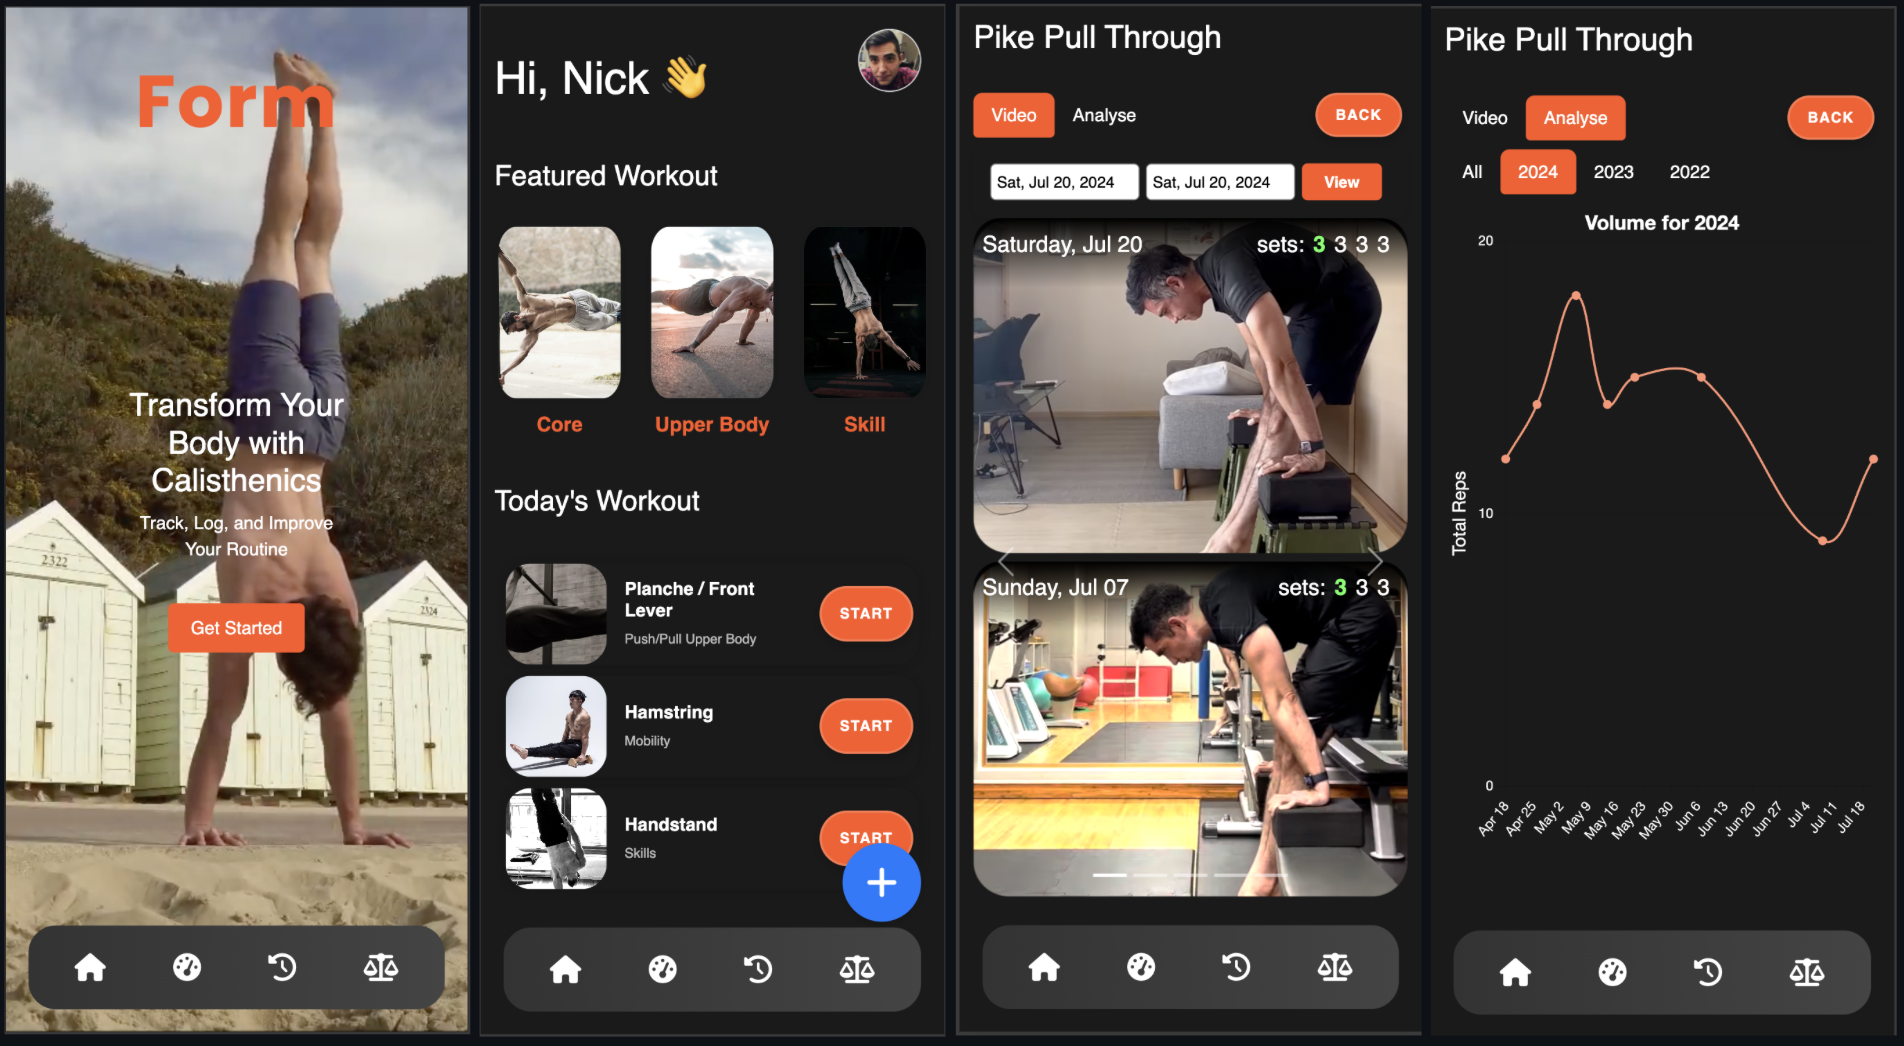
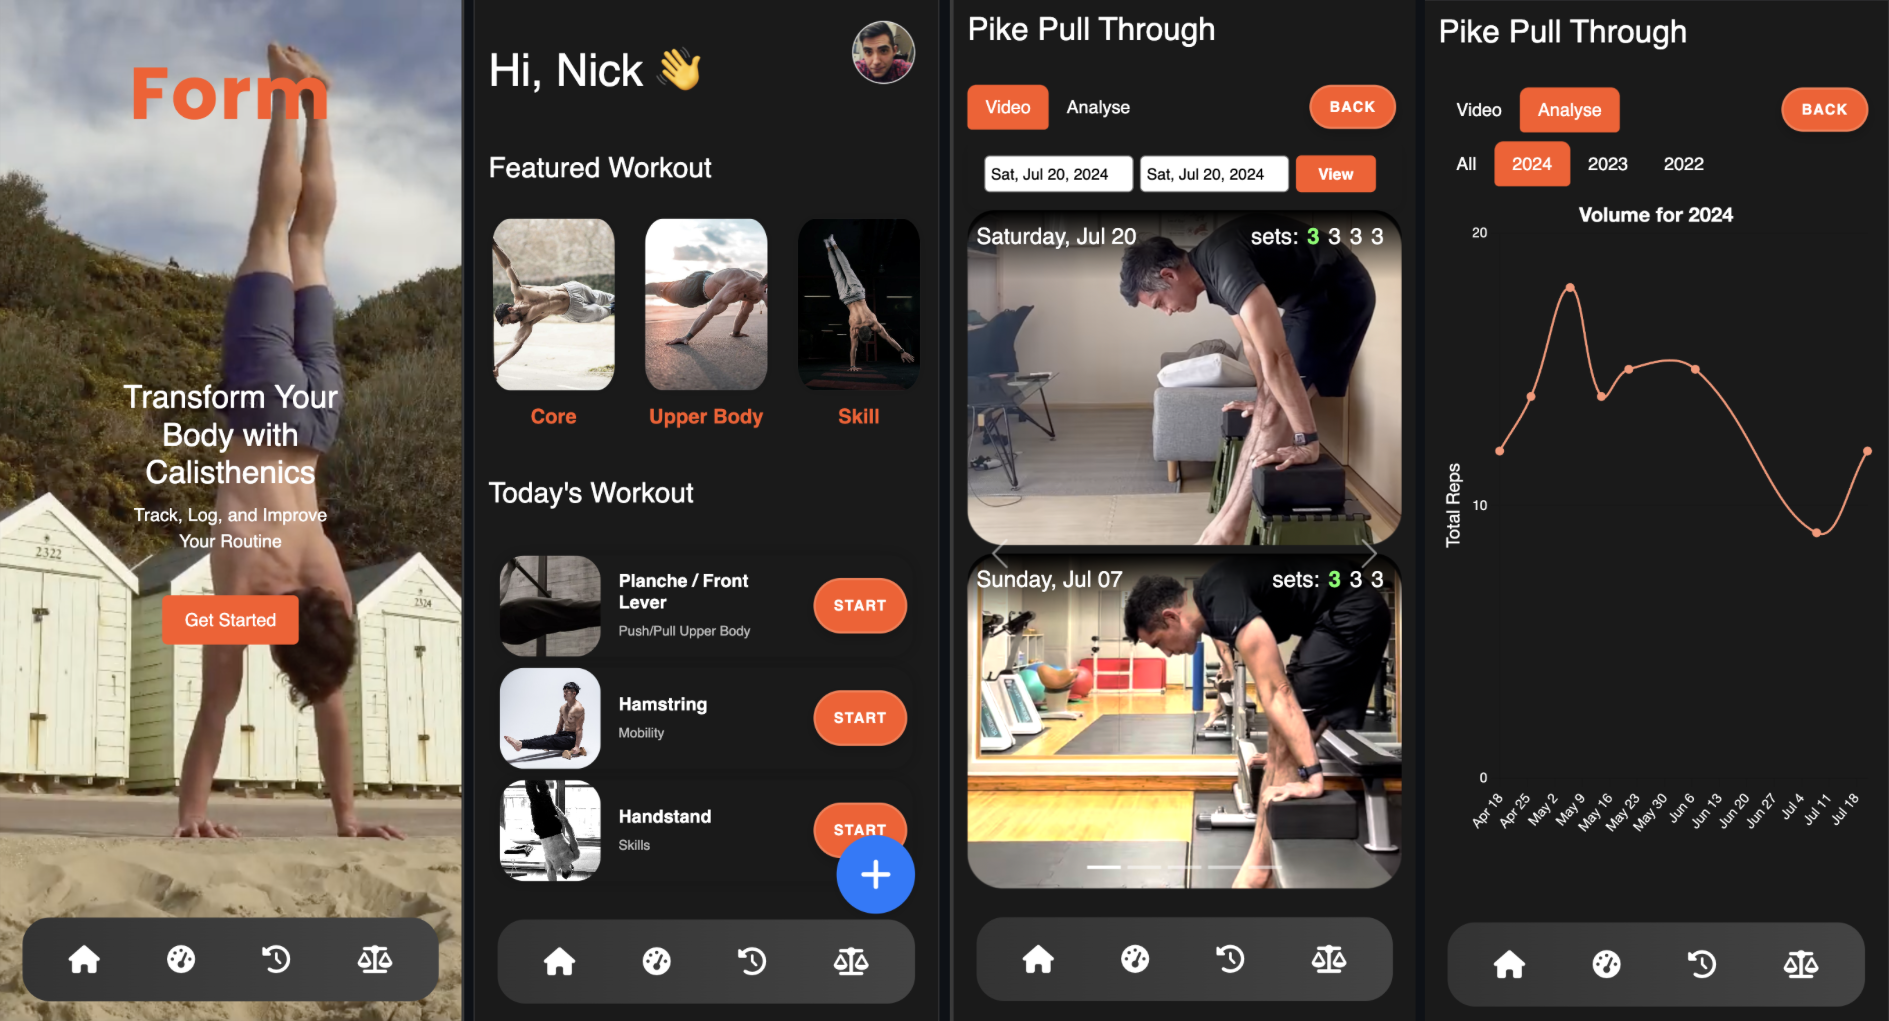
made changes to cards

diff --git a/source/stylesheets/components/_cards.scss b/source/stylesheets/components/_cards.scss
@@ -6,7 +6,8 @@
 
 .card-product {
   overflow: hidden;
-  height: 280px;
+  height: 300px;
+  border-radius: 16px;
   background: white;
   box-shadow: 0 0 15px rgba(0, 0, 0, 0.2);
   display: flex;
@@ -16,7 +17,7 @@
 }
 
 .card-product img {
-  height: 184px;
+  height: 200px;
   width: 100%;
   object-fit: cover;
 }

diff --git a/source/stylesheets/components/_avatar.scss b/source/stylesheets/components/_avatar.scss
@@ -1,5 +1,7 @@
 .avatar {
-  width: 40px;
+  height: 150px;
+  width: 150px;
+  object-fit: cover; 
   border-radius: 50%;
 }
 .avatar-large {
